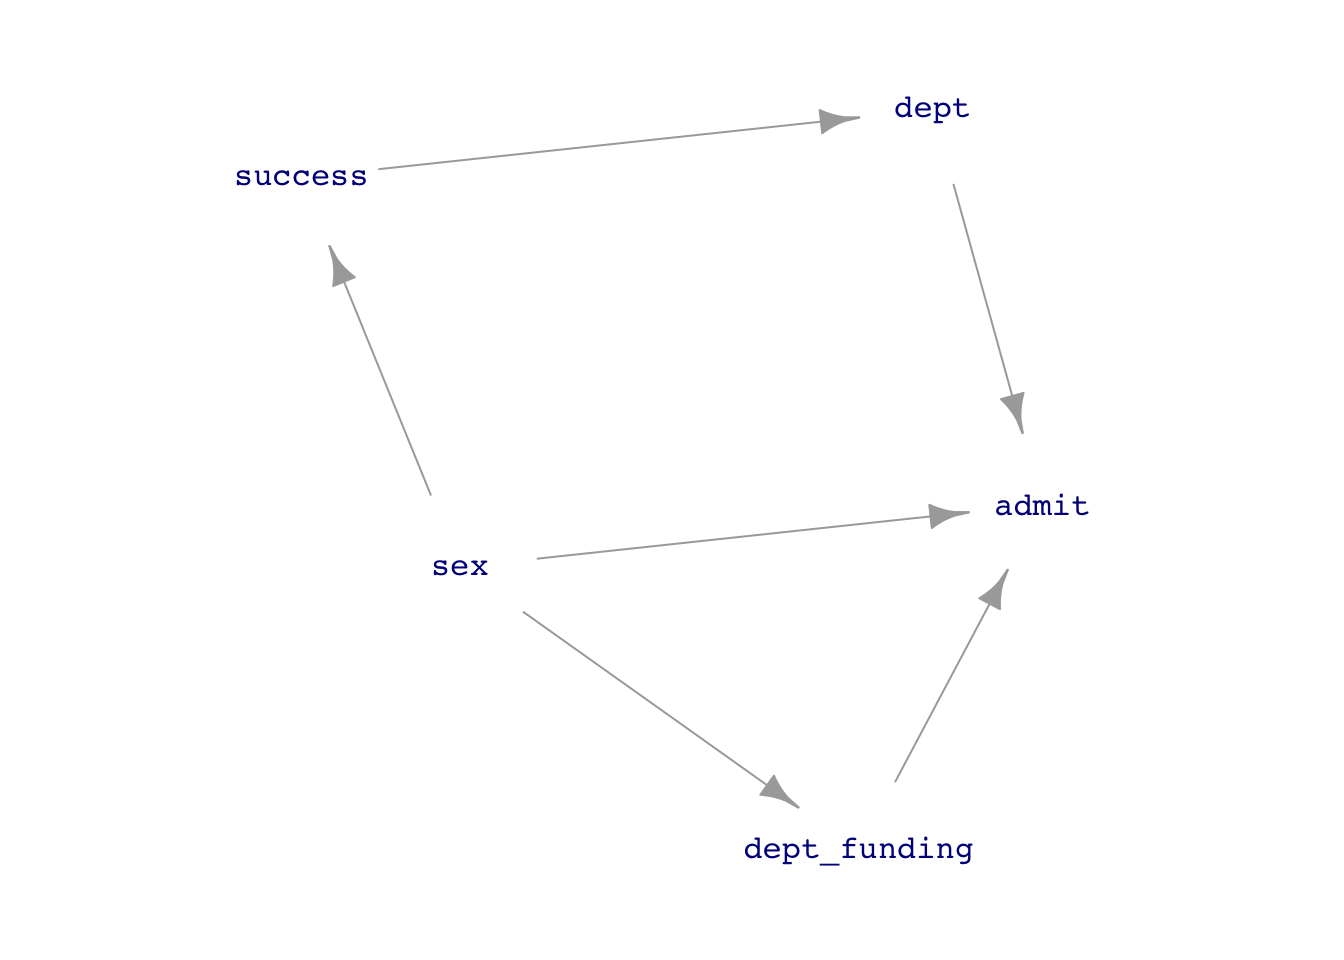
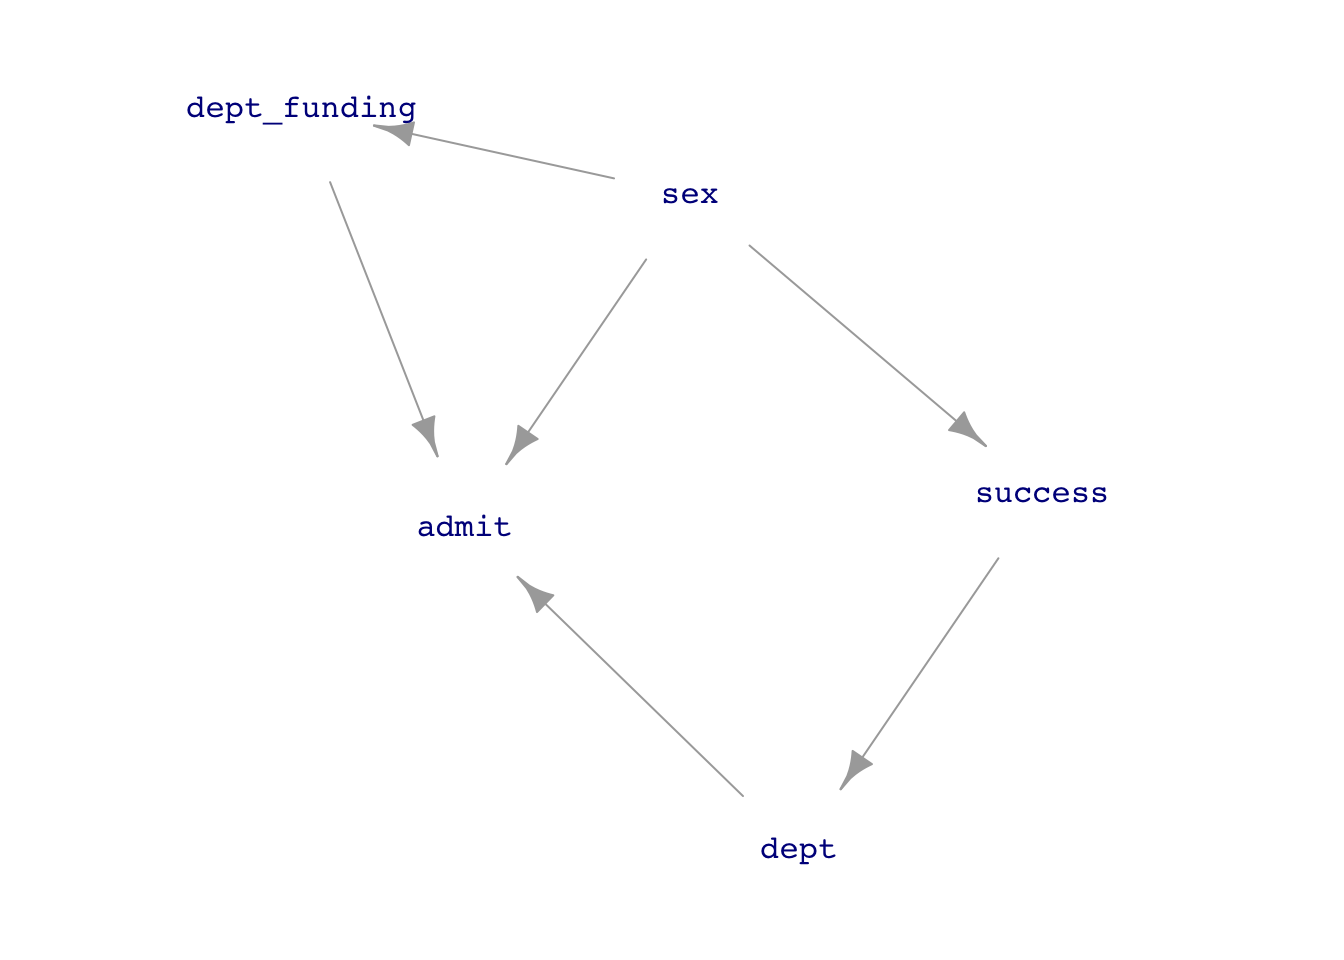
updated schedule for Lesson 30

diff --git a/docs/Day-by-day/Lesson-30/Teaching-notes-30.html b/docs/Day-by-day/Lesson-30/Teaching-notes-30.html
@@ -205,6 +205,8 @@ code span.wa { color: #60a0b0; font-weight: bold; font-style: italic; } /* Warni
 
 </header>
 
+<p>Aside: Confidence bands and global warming.</p>
+<p><a href="http://r.iresmi.net/2023/04/05/cherry-blossom/">Cherry blossoms from Kyoto over 1200 years.</a></p>
 <section id="smoking-and-cancer-a-1950s-controversy" class="level2">
 <h2 class="anchored" data-anchor-id="smoking-and-cancer-a-1950s-controversy">Smoking and cancer: a 1950s controversy</h2>
 <p>Deniers of a smoking/cancer link claimed there was a common cause for both: a “cancer gene.”</p>
@@ -324,38 +326,38 @@ Tar-&gt;Lung cancer
 <div class="sourceCode cell-code" id="cb3"><pre class="sourceCode r code-with-copy"><code class="sourceCode r"><span id="cb3-1"><a href="#cb3-1" aria-hidden="true" tabindex="-1"></a><span class="fu">lm</span>(D <span class="sc">~</span> A, <span class="at">data=</span>Samp) <span class="sc">|&gt;</span> <span class="fu">conf_interval</span>()</span></code><button title="Copy to Clipboard" class="code-copy-button"><i class="bi"></i></button></pre></div>
 <div class="cell-output cell-output-stdout">
 <pre><code># A tibble: 2 × 4
-  term           .lwr    .coef   .upr
-  &lt;chr&gt;         &lt;dbl&gt;    &lt;dbl&gt;  &lt;dbl&gt;
-1 (Intercept) -0.0665 -0.00368 0.0591
-2 A            0.950   1.01    1.07  </code></pre>
+  term           .lwr  .coef   .upr
+  &lt;chr&gt;         &lt;dbl&gt;  &lt;dbl&gt;  &lt;dbl&gt;
+1 (Intercept) -0.0507 0.0118 0.0744
+2 A            0.949  1.01   1.07  </code></pre>
 </div>
 <div class="sourceCode cell-code" id="cb5"><pre class="sourceCode r code-with-copy"><code class="sourceCode r"><span id="cb5-1"><a href="#cb5-1" aria-hidden="true" tabindex="-1"></a><span class="fu">lm</span>(D <span class="sc">~</span> A <span class="sc">+</span> B, <span class="at">data=</span>Samp) <span class="sc">|&gt;</span> <span class="fu">conf_interval</span>()</span></code><button title="Copy to Clipboard" class="code-copy-button"><i class="bi"></i></button></pre></div>
 <div class="cell-output cell-output-stdout">
 <pre><code># A tibble: 3 × 4
-  term           .lwr    .coef   .upr
-  &lt;chr&gt;         &lt;dbl&gt;    &lt;dbl&gt;  &lt;dbl&gt;
-1 (Intercept) -0.0666 -0.00373 0.0591
-2 A            0.927   1.01    1.10  
-3 B           -0.0654 -0.00292 0.0596</code></pre>
+  term           .lwr  .coef   .upr
+  &lt;chr&gt;         &lt;dbl&gt;  &lt;dbl&gt;  &lt;dbl&gt;
+1 (Intercept) -0.0516 0.0110 0.0736
+2 A            0.899  0.988  1.08  
+3 B           -0.0383 0.0234 0.0852</code></pre>
 </div>
 <div class="sourceCode cell-code" id="cb7"><pre class="sourceCode r code-with-copy"><code class="sourceCode r"><span id="cb7-1"><a href="#cb7-1" aria-hidden="true" tabindex="-1"></a><span class="fu">lm</span>(D <span class="sc">~</span> A <span class="sc">+</span> C, <span class="at">data=</span>Samp) <span class="sc">|&gt;</span> <span class="fu">conf_interval</span>()</span></code><button title="Copy to Clipboard" class="code-copy-button"><i class="bi"></i></button></pre></div>
 <div class="cell-output cell-output-stdout">
 <pre><code># A tibble: 3 × 4
-  term           .lwr  .coef   .upr
-  &lt;chr&gt;         &lt;dbl&gt;  &lt;dbl&gt;  &lt;dbl&gt;
-1 (Intercept) -0.0270 0.0243 0.0757
-2 A            0.299  0.374  0.449 
-3 C            0.297  0.325  0.354 </code></pre>
+  term           .lwr   .coef   .upr
+  &lt;chr&gt;         &lt;dbl&gt;   &lt;dbl&gt;  &lt;dbl&gt;
+1 (Intercept) -0.0432 0.00736 0.0579
+2 A            0.259  0.336   0.413 
+3 C            0.313  0.342   0.371 </code></pre>
 </div>
 <div class="sourceCode cell-code" id="cb9"><pre class="sourceCode r code-with-copy"><code class="sourceCode r"><span id="cb9-1"><a href="#cb9-1" aria-hidden="true" tabindex="-1"></a><span class="fu">lm</span>(D <span class="sc">~</span> A <span class="sc">+</span> B <span class="sc">+</span> C, <span class="at">data=</span>Samp) <span class="sc">|&gt;</span> <span class="fu">conf_interval</span>()</span></code><button title="Copy to Clipboard" class="code-copy-button"><i class="bi"></i></button></pre></div>
 <div class="cell-output cell-output-stdout">
 <pre><code># A tibble: 4 × 4
   term           .lwr   .coef    .upr
   &lt;chr&gt;         &lt;dbl&gt;   &lt;dbl&gt;   &lt;dbl&gt;
-1 (Intercept) -0.0162  0.0283  0.0728
-2 A            0.484   0.552   0.620 
-3 B           -0.554  -0.500  -0.446 
-4 C            0.456   0.486   0.516 </code></pre>
+1 (Intercept) -0.0205  0.0235  0.0675
+2 A            0.431   0.501   0.570 
+3 B           -0.544  -0.490  -0.437 
+4 C            0.479   0.510   0.542 </code></pre>
 </div>
 </div>
 <div class="cell">
@@ -374,28 +376,28 @@ Tar-&gt;Lung cancer
 <span id="cb12-2"><a href="#cb12-2" aria-hidden="true" tabindex="-1"></a><span class="fu">lm</span>(D <span class="sc">~</span> A, <span class="at">data=</span>Samp) <span class="sc">|&gt;</span> <span class="fu">conf_interval</span>()</span></code><button title="Copy to Clipboard" class="code-copy-button"><i class="bi"></i></button></pre></div>
 <div class="cell-output cell-output-stdout">
 <pre><code># A tibble: 2 × 4
-  term           .lwr   .coef   .upr
-  &lt;chr&gt;         &lt;dbl&gt;   &lt;dbl&gt;  &lt;dbl&gt;
-1 (Intercept) -0.0804 -0.0196 0.0413
-2 A            0.916   0.976  1.04  </code></pre>
+  term          .lwr   .coef    .upr
+  &lt;chr&gt;        &lt;dbl&gt;   &lt;dbl&gt;   &lt;dbl&gt;
+1 (Intercept) -0.115 -0.0566 0.00185
+2 A            0.915  0.972  1.03   </code></pre>
 </div>
 <div class="sourceCode cell-code" id="cb14"><pre class="sourceCode r code-with-copy"><code class="sourceCode r"><span id="cb14-1"><a href="#cb14-1" aria-hidden="true" tabindex="-1"></a><span class="fu">lm</span>(D <span class="sc">~</span> A <span class="sc">+</span> C, <span class="at">data=</span>Samp) <span class="sc">|&gt;</span> <span class="fu">conf_interval</span>()</span></code><button title="Copy to Clipboard" class="code-copy-button"><i class="bi"></i></button></pre></div>
 <div class="cell-output cell-output-stdout">
 <pre><code># A tibble: 3 × 4
-  term           .lwr   .coef   .upr
-  &lt;chr&gt;         &lt;dbl&gt;   &lt;dbl&gt;  &lt;dbl&gt;
-1 (Intercept) -0.0791 -0.0295 0.0202
-2 A            0.221   0.298  0.375 
-3 C            0.313   0.343  0.373 </code></pre>
+  term           .lwr    .coef   .upr
+  &lt;chr&gt;         &lt;dbl&gt;    &lt;dbl&gt;  &lt;dbl&gt;
+1 (Intercept) -0.0547 -0.00594 0.0429
+2 A            0.290   0.364   0.438 
+3 C            0.275   0.303   0.331 </code></pre>
 </div>
 <div class="sourceCode cell-code" id="cb16"><pre class="sourceCode r code-with-copy"><code class="sourceCode r"><span id="cb16-1"><a href="#cb16-1" aria-hidden="true" tabindex="-1"></a><span class="fu">lm</span>(D <span class="sc">~</span> A <span class="sc">+</span> E, <span class="at">data=</span>Samp) <span class="sc">|&gt;</span> <span class="fu">conf_interval</span>()</span></code><button title="Copy to Clipboard" class="code-copy-button"><i class="bi"></i></button></pre></div>
 <div class="cell-output cell-output-stdout">
 <pre><code># A tibble: 3 × 4
-  term           .lwr   .coef   .upr
-  &lt;chr&gt;         &lt;dbl&gt;   &lt;dbl&gt;  &lt;dbl&gt;
-1 (Intercept) -0.0763 -0.0266 0.0231
-2 A            0.224   0.301  0.378 
-3 E            0.0311  0.0341 0.0371</code></pre>
+  term           .lwr    .coef   .upr
+  &lt;chr&gt;         &lt;dbl&gt;    &lt;dbl&gt;  &lt;dbl&gt;
+1 (Intercept) -0.0535 -0.00474 0.0440
+2 A            0.291   0.365   0.438 
+3 E            0.0275  0.0303  0.0331</code></pre>
 </div>
 </div>
 <pre><code>

diff --git a/docs/index.html b/docs/index.html
@@ -282,7 +282,7 @@ Take-aways from the most recent class
 <td style="text-align: left;">Apr 7</td>
 <td style="text-align: left;">Lesson 30 <a href="Day-by-day/Lesson-30/Teaching-notes-30.html">Notes</a>:<a href="https://dtkaplan.github.io/Lessons-in-statistical-thinking/Lesson-30.html">Reading</a></td>
 <td>Confounding</td>
-<td>TBA</td>
+<td><a href="Day-by-day/Lesson-30/simple-paths.html">Simple causal paths</a></td>
 <td><a href="Worksheets/Worksheet-30.html">Soln</a></td>
 <td><a href="https://dtkaplan.github.io/Math300blog/posts/Takeaways-30/">Blog-30</a></td>
 <td><a href="NA">video</a></td>
